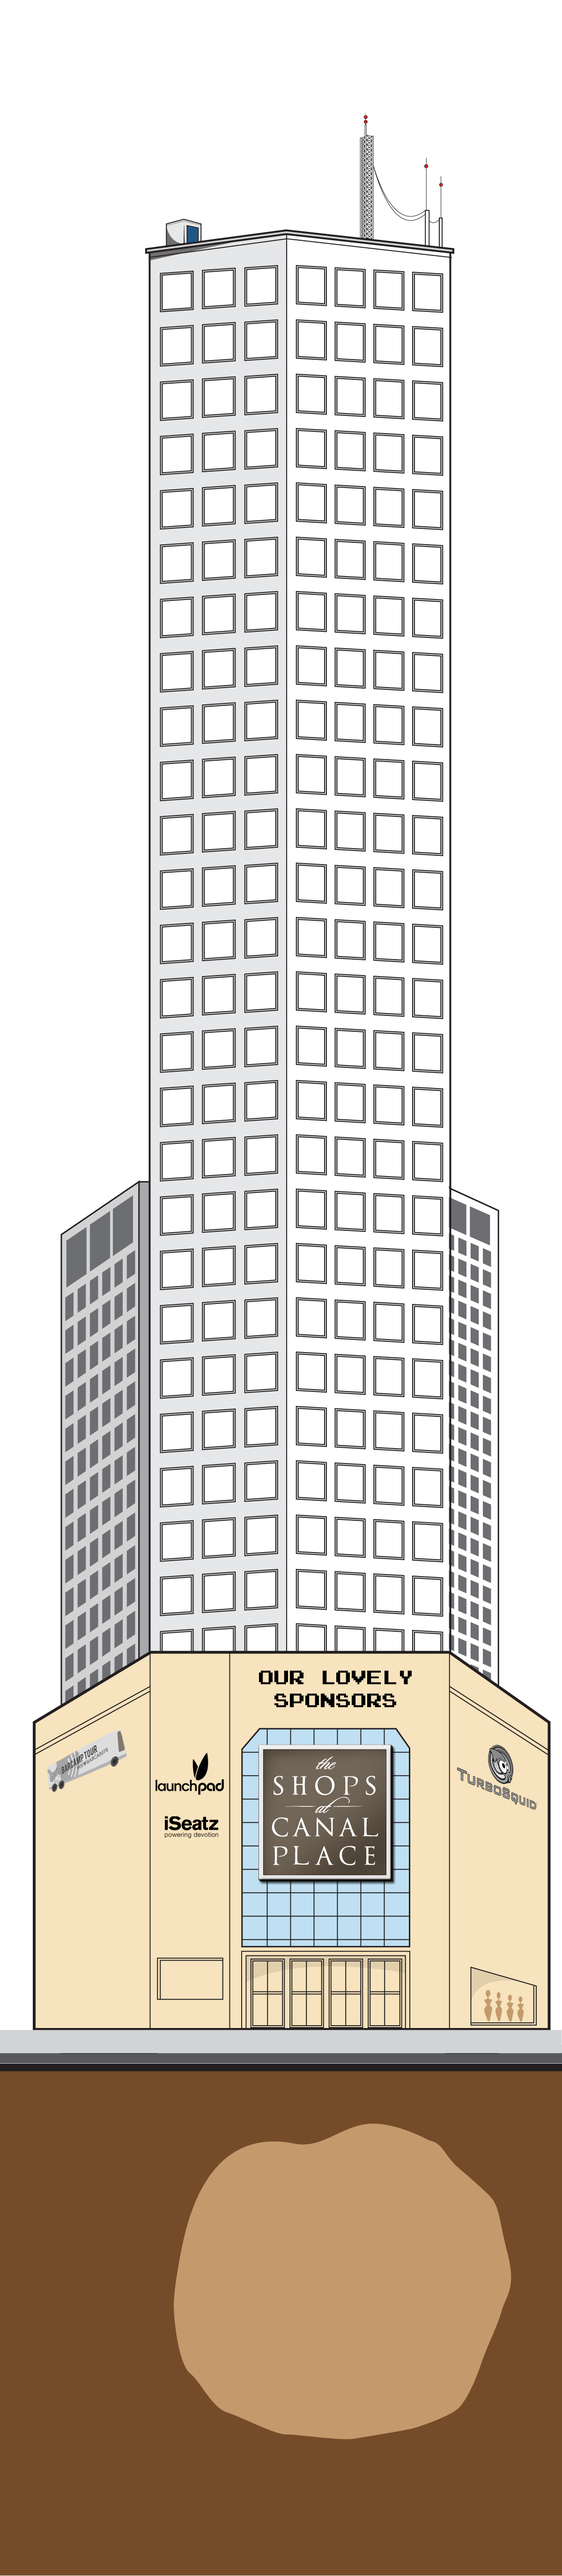
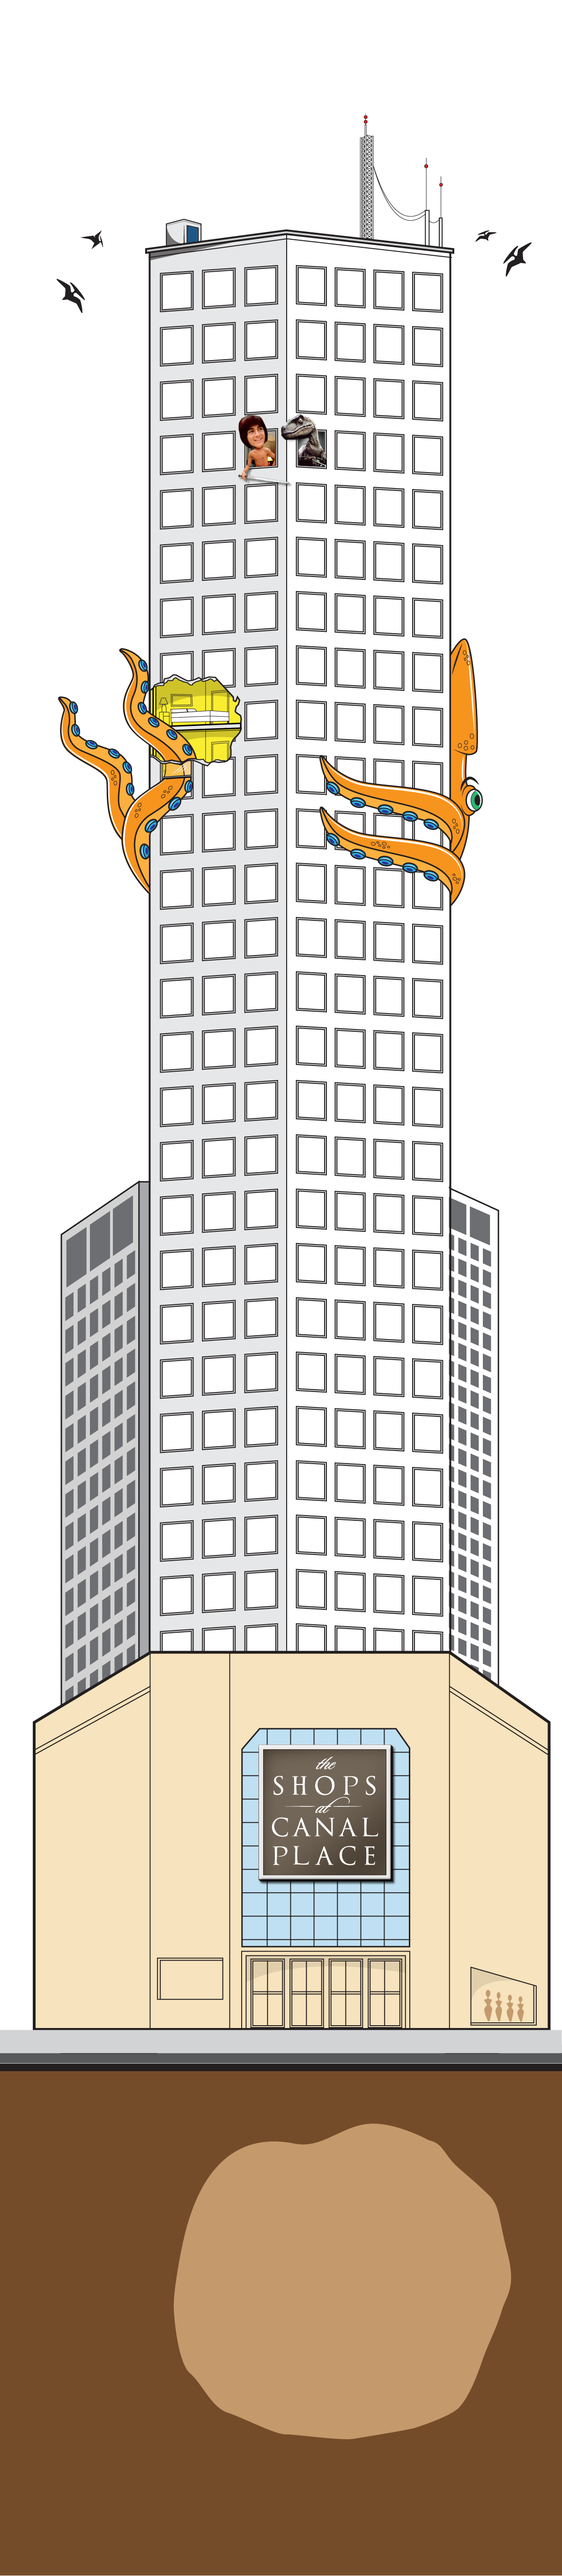
moving george

diff --git a/public/css/style.css b/public/css/style.css
@@ -85,7 +85,7 @@ h3 {
     height: 395px;
     position: absolute;
     left: 250px;
-    top: 1800px; }
+    top: 1082px; }
 
 #windowPanes {
   position: absolute;

diff --git a/public/css/style.scss b/public/css/style.scss
@@ -110,7 +110,7 @@ h3 {
     height: 395px;
     position: absolute;
     left:250px;
-    top:1800px;
+    top:1082px;
   }
 }
 
